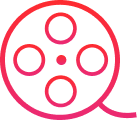
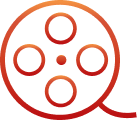
change colors to orange

diff --git a/src/components/Signup.js b/src/components/Signup.js
@@ -1,6 +1,6 @@
 import React, { Component } from 'react';
 import { connect } from 'react-redux';
-import { View, Text, Image, StyleSheet, TextInput, TouchableOpacity } from 'react-native';
+import { View, Text, Image, StyleSheet, TextInput, TouchableOpacity, Alert } from 'react-native';
 import { NavigationActions } from 'react-navigation';
 import Login from './Login';
 import { createUser } from '../actions/userActions'
@@ -13,10 +13,10 @@ class Signup extends Component {
 
     this.state = {
       user: {
-        firstname: "",
-        lastname: "",
-        email: "",
-        password:"",
+        firstname: '',
+        lastname: '',
+        email: '',
+        password:'',
       }
     }
   }
@@ -28,10 +28,43 @@ class Signup extends Component {
     }
   });
 
-  linkToLogin = () => {
-    // navigates back to login  
-    //const b2ackAction = NavigationActions.back({}); 
-    this.props.signup(this.state.user)   
+  linkToLogin = (signup, user, alert) => {
+    let isValid = true;
+    let message = '';
+
+    if (!user.firstname || user.firstname === '') {
+      isValid = false;
+      message = 'First name cannot be blank';
+    }
+
+    if (!user.lastname || user.lastname === '' ) {
+      isValid = false;
+      message = 'Last name cannot be blank';
+    }
+
+    if (!user.email || user.email === '' || user.email.indexOf('@') === -1) {
+      isValid = false;
+      message = 'Email not properly formatted';
+    }
+
+    if (!user.password || user.password === '' || user.password.length < 6) {
+      isValid = false;
+      message = 'Password cannot be less than 6 characters';
+    }
+
+    if (isValid) { 
+      signup(user) 
+    } else {
+      alert.alert(
+        'Unable to Signup',
+        message,
+        [
+          {text: 'OK', onPress: () => console.log('OK Pressed')},
+        ],
+        { cancelable: true }
+      )
+    }
+    
   }
 
   render () {
@@ -82,19 +115,20 @@ class Signup extends Component {
         </View>
 
         <TouchableOpacity
-           onPress={this.linkToLogin}
+           onPress= {() => { 
+             this.linkToLogin(this.props.signup, this.state.user, Alert);
+            }}
           style = {styles.submitButton}
         >         
           <Text style = {styles.btnText}> Sign Up </Text>
         </TouchableOpacity>
 
-        <TouchableOpacity>
-          <View style={styles.signupHolder}>
-            <Text style={styles.noAccount}> Already have an account? </Text>
-            
-              <Text style={styles.signup}> Log In!</Text>
-          </View>
-        </TouchableOpacity>
+        
+        <View style={styles.signupHolder}>
+          <Text style={styles.noAccount}> Already have an account? </Text>
+          
+            <Text onPress={() => this.props.navigation.goBack(null)} style={styles.signup}> Log In!</Text>
+        </View>
         
         <Text style={styles.terms}> By signing in / signing up you agree to the </Text>
         <Text style={styles.policy}>terms of service and privacy policy</Text>
@@ -116,7 +150,7 @@ const styles = StyleSheet.create({
     width: 100,
     resizeMode:'contain',
   }, 
-  logInText:{
+  logInText: {
     backgroundColor: 'transparent',
     textAlign: 'center',
     color: '#ffffff',

diff --git a/src/components/navigation/TabNavigation.js b/src/components/navigation/TabNavigation.js
@@ -45,14 +45,14 @@ export default TabNavigator (
           } else if (routeName === 'AddReview') {
             iconUrl = (require('../../../assets/addReview.png'));
           } else if (routeName === 'Checkin') {
-            iconUrl = (require('../../../assets/moduLogo.png'));
+            iconUrl = (require('../../../assets/orangeLogo.png'));
           }  else if (routeName === 'Profile') {
             iconUrl = (require('../../../assets/profileTab.png'));
           }
 
           return (
             (tintColor === '#ffffff') ? 
-            <Image source={require('../../../assets/checkinTab.png')} style={{height:20, width:20, resizeMode:'contain'}}/> : 
+            <Image source={require('../../../assets/moduLogo.png')} style={{height:20, width:20, resizeMode:'contain'}}/> : 
             <Image source={iconUrl} style={{height:20, width:20, resizeMode:'contain'}}  />
           );
       }}),
@@ -60,8 +60,8 @@ export default TabNavigator (
       tabBarPosition: 'bottom',
       tabBarOptions: {
         activeTintColor: '#ffffff',
-        inactiveTintColor: '#FF2B26',
-        activeBackgroundColor:'#FF2B26',
+        inactiveTintColor: 'rgba(208, 58, 27, 0.9469)',
+        activeBackgroundColor:'rgba(208, 58, 27, 0.9469)',
         showLabel: true,
         tabStyle: {
             // borderTopRightRadius: 10,

diff --git a/src/api/userApi.js b/src/api/userApi.js
@@ -1,27 +1,21 @@
 import request from 'superagent';
 
 const url = 'https://modu-server-staging.herokuapp.com/api/';
-const endpoint = 'People';
-
-// const userHard = {
-//   "firstname": "string",
-//   "surname": "string",
-//   "phone": "string",
-//   "email": "string3@strings.com",
-//   "profilePicture": "string",
-//   "realm": "string",
-//   "username": "string3",
-//   "emailVerified": true,
-//   "password": "string"
-// }
+const createUserEndpoint = 'People';
+const loginEndpoint = 'People/login';
 
 class UserApi {
-  static createUser (user) {
-    console.log(`${url}${endpoint}`)
-    return request.get(`${url}${endpoint}`)
-      .send(userHard)
+  createUser = (user) => {
+    return request.post(`${url}${createUserEndpoint}`)
+      .send(user)
+      .set('Content-Type', 'application/json')
+  }
+
+  login = (details) => {
+    return request.post(`${url}${loginEndpoint}`)
+      .send(details)
       .set('Content-Type', 'application/json')
   }
 }
 
-export default UserApi;
+export default new UserApi();

diff --git a/App.js b/App.js
@@ -29,7 +29,7 @@ export default class App extends React.Component {
     }, {
       navigationOptions: ({navigation}) => ({
         headerStyle: { backgroundColor: '#ffffff' },
-        headerTintColor: '#FD2B30',
+        headerTintColor: 'rgba(208, 58, 27, 0.9469)',
         headerLeft: <TouchableOpacity 
         onPress={() => {
           (toggle) ?
